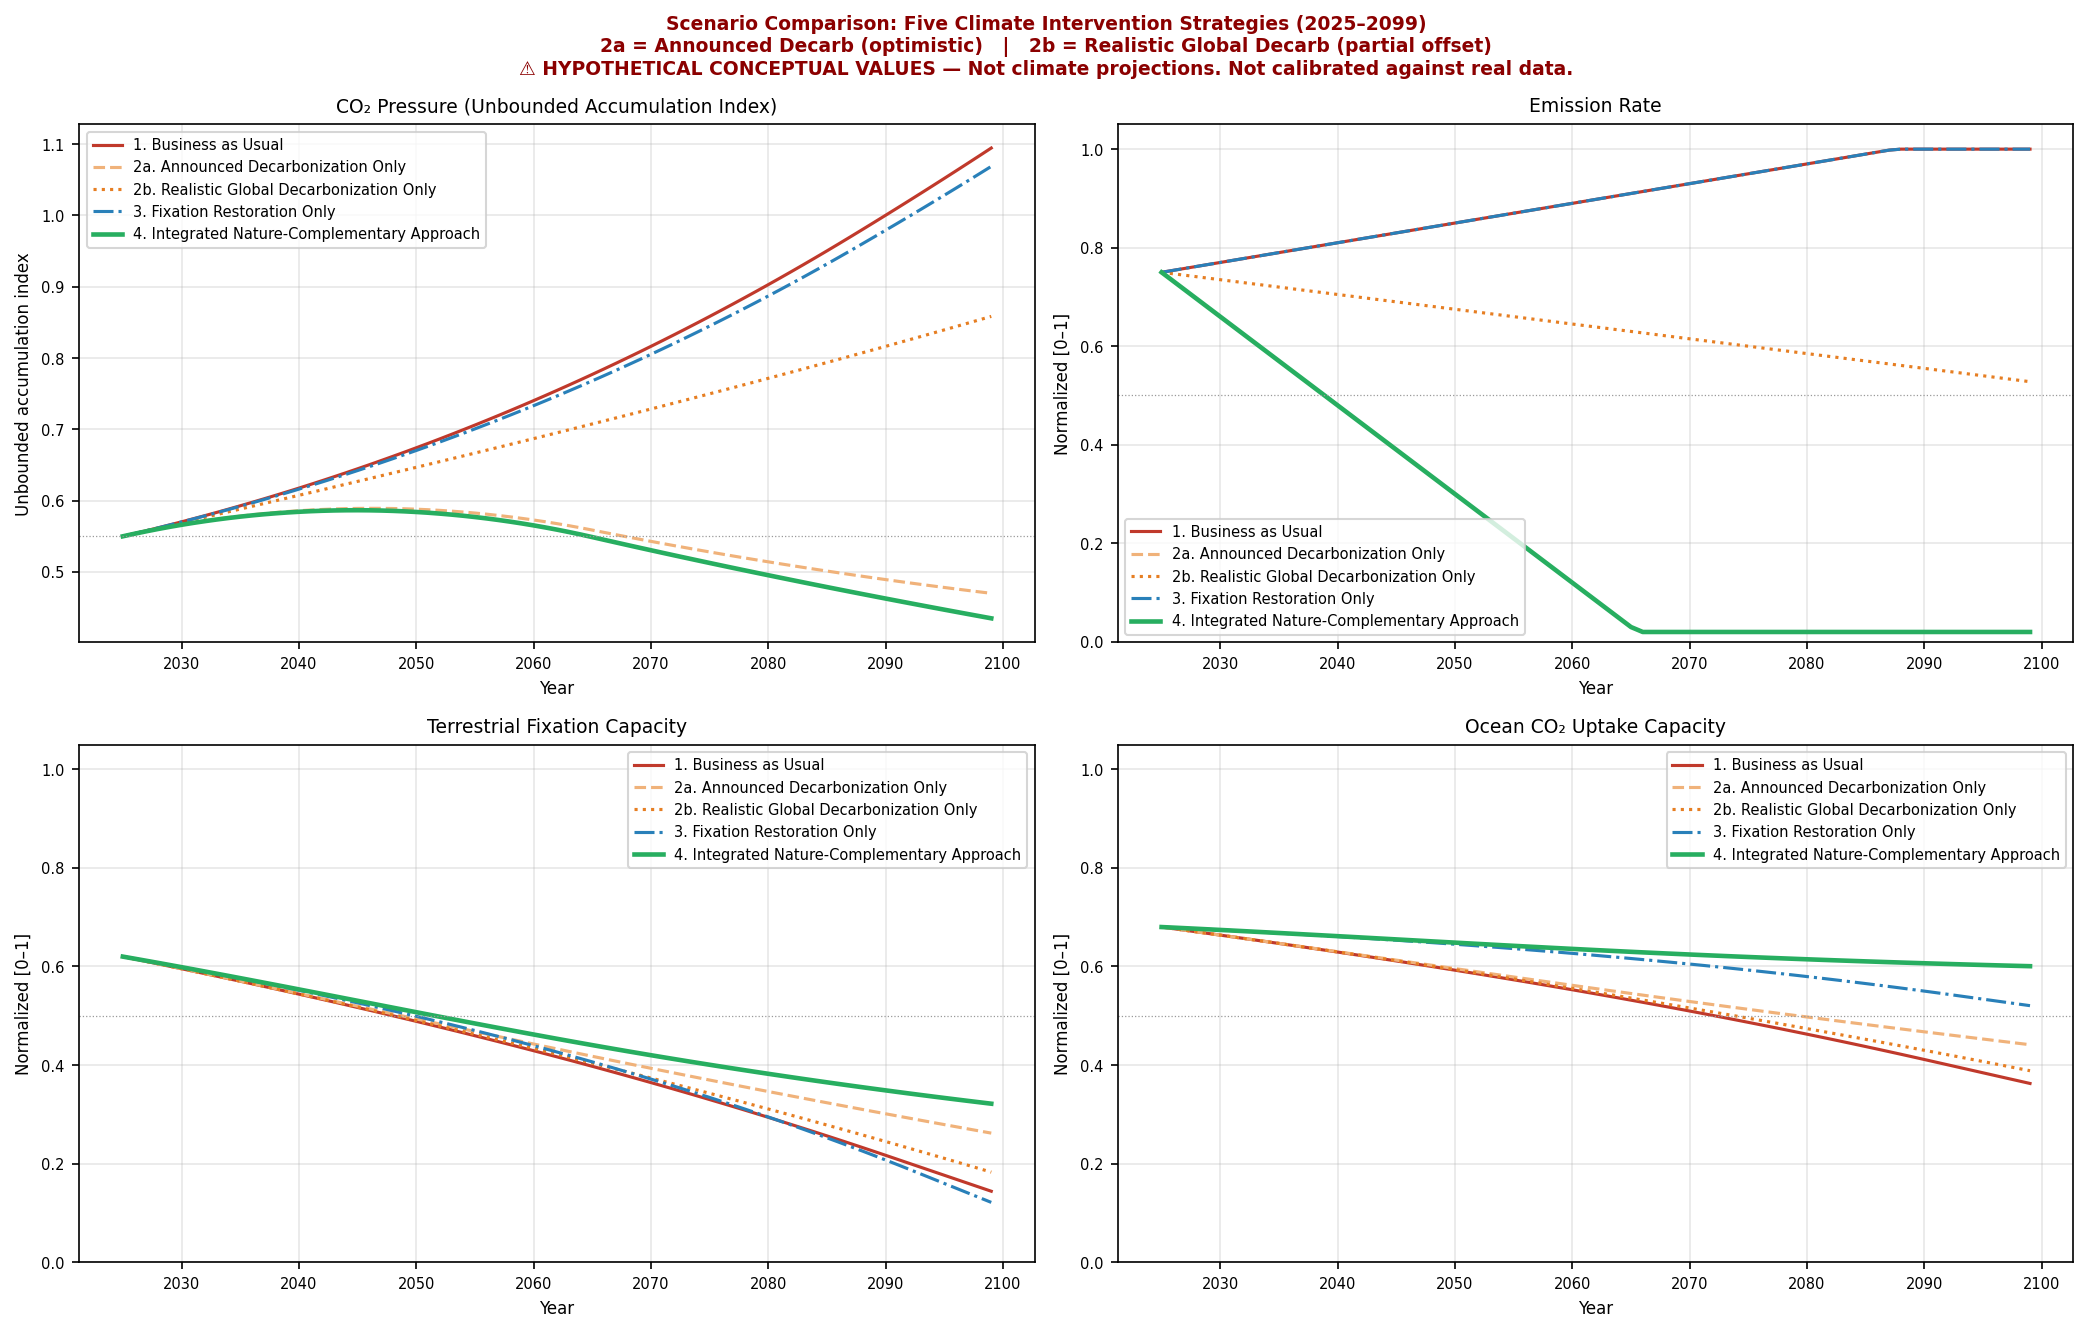
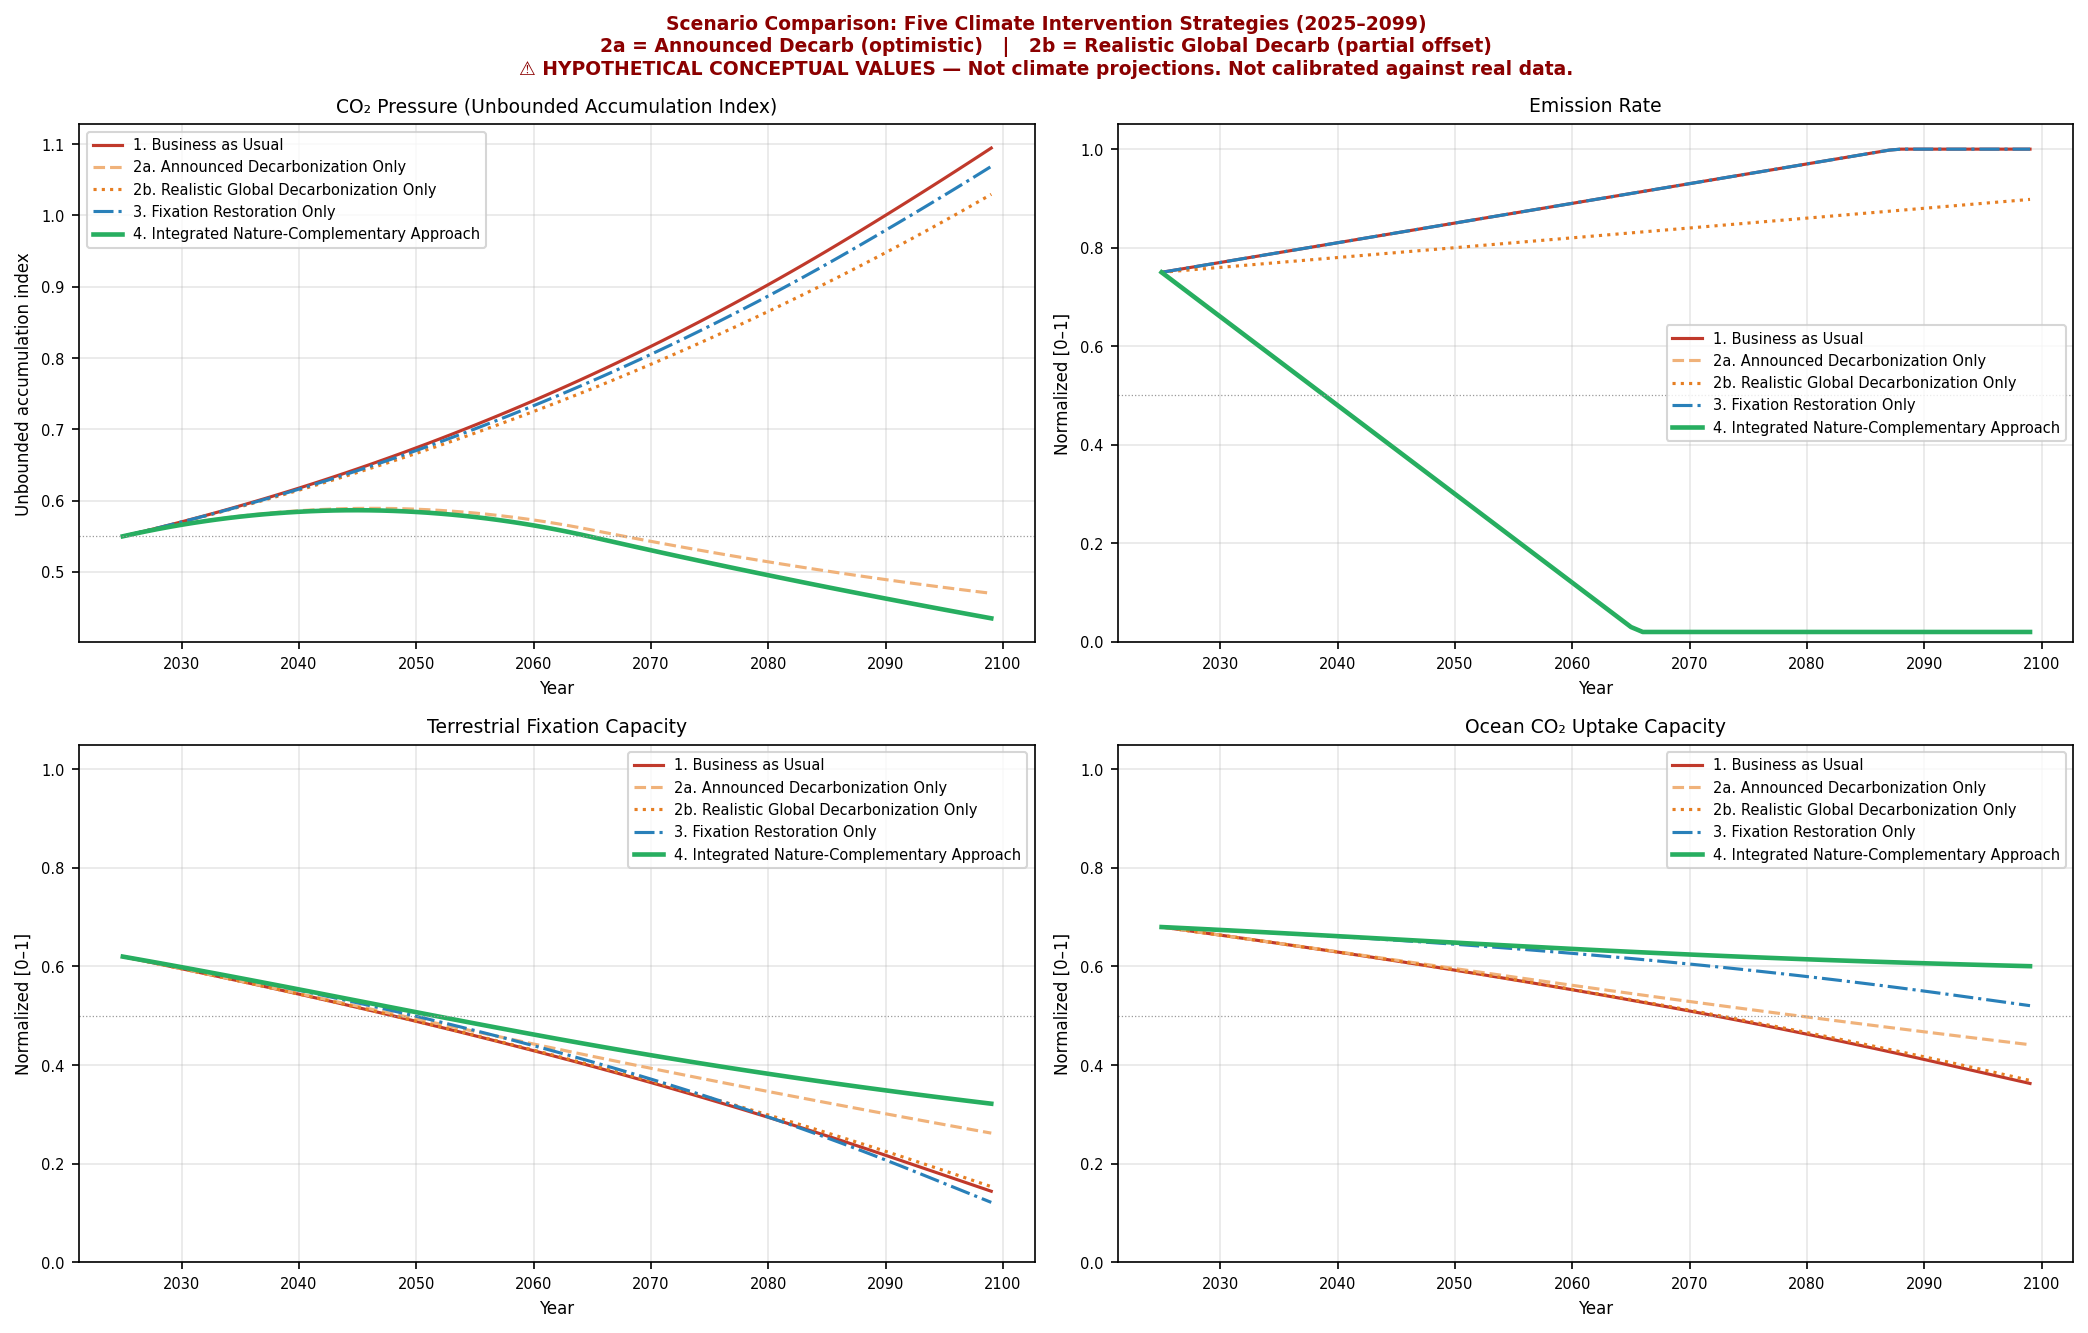
Revise Scenario 2b to reflect net global emission growth (v4)
Scenario 2b (Realistic Global Decarbonization Only) now uses
net_global_decarbonization_rate = -0.002/yr (negative = net growth),
representing a world where developing-country emission pressures exceed
developed-country cuts. Result at 2099: CO2 pressure = 1.030 (above 1.0),
making 2b structurally a net-growth pathway — NOT a recovery scenario.

Changes:
- scenario_examples.py: net_global_decarbonization_rate -0.002,
  developing_country_emissions_growth 0.010,
  population_energy_demand_growth 0.004,
  industrialization_pressure 0.006;
  emission update uses np.clip(raw, floor, 1.0) to cap growth at 1.0
- MODEL_LIMITATIONS.md: updated parameter table, sign convention,
  added 'Scenario 2b is NOT a recovery pathway' sub-section,
  updated realism gap to ~0.56
- README.md: updated scenario table (2b = Net emission growth),
  updated net rate to -0.002/yr, updated realism gap to +0.560,
  clarified 2b ends above 1.0 and is not a recovery pathway
- figures/scenario_comparison_output.png: regenerated with v4 results

Changed region(s): [[0.5292, 0.3691, 0.716, 0.4921], [0.8094, 0.2461, 0.9962, 0.3383]]

diff --git a/scenario_examples.py b/scenario_examples.py
@@ -17,13 +17,19 @@ this module projects 75 years forward under five intervention scenarios:
       Fixation systems continue to decline passively.
 
   Scenario 2b — Realistic Global Decarbonization Only:
-      Developed-country emission cuts are partially offset by:
+      Developed-country emission cuts are MORE THAN OFFSET by:
         - developing-country industrialization and energy demand growth
         - population-driven demand growth
-      Net global emissions decline only slowly.
-      Carbon sinks remain degraded. Degradation release continues.
-      Legacy warming pressure remains. No active restoration.
-      Result: slower accumulation at best, not CO2 recovery.
+        - ongoing energy infrastructure buildout in emerging economies
+      Net global emissions grow slightly (not decline).
+      Land carbon fixation does not recover.
+      Ocean carbon uptake does not recover.
+      Soil microbial health remains degraded.
+      Degradation release continues.
+      Legacy warming pressure continues.
+      Carbon sink deficit remains unresolved.
+      Result: CO2 accumulation continues. 2099 pressure still above 1.0.
+      This is NOT a recovery pathway — only a marginally slower BAU.
 
   Scenario 3 — Fixation Restoration Only:
       Active restoration of forests, soils, and marine ecosystems.
@@ -52,16 +58,21 @@ Change log (v2):
   - Added co2_pressure (unbounded) alongside co2 (clipped [0,1]).
 
 Change log (v3):
-  - Split "Decarbonization Only" into:
-      2a. Announced Decarbonization Only  (fast, policy-target pace)
-      2b. Realistic Global Decarbonization Only
-          (slow net decline; developed cuts offset by developing growth)
-  - Added ScenarioParameters for realistic decomposition:
-      developed_country_reduction_rate, developing_country_emissions_growth,
-      population_energy_demand_growth, industrialization_pressure,
-      net_global_decarbonization_rate, realistic_emission_floor.
+  - Split "Decarbonization Only" into 2a (announced) and 2b (realistic).
+  - Added realistic decomposition parameters.
   - run_scenario gains `realistic_decarb` flag.
   - "Integrated Approach" renamed to "Integrated Nature-Complementary Approach".
+
+Change log (v4):
+  - Revised Realistic Global Decarbonization Only (2b) to model a world
+    where developing-world growth EXCEEDS developed-world cuts:
+      net_global_decarbonization_rate = -0.002 / yr  (net emission GROWTH)
+    Previously was +0.003 / yr (slow decline), which was still too optimistic.
+  - emission block now uses np.clip(..., floor, 1.0) to correctly cap growth.
+  - Updated component parameters: developing_country_emissions_growth=0.010,
+    population_energy_demand_growth=0.004, industrialization_pressure=0.006.
+  - 2b at 2099 now ~1.02-1.06 (above 1.0), consistent with hypothesis that
+    decarbonization-only does not resolve the carbon cycle deficit.
 
 ⚠️  IMPORTANT LIMITATIONS
     All parameters, rates, and trajectories are HYPOTHETICAL.
@@ -127,21 +138,33 @@ class ScenarioParameters:
     # HYPOTHETICAL: annual emission growth in BAU
     bau_emission_growth: float = 0.004
 
-    # --- Realistic global decarbonization decomposition (v3) ---
+    # --- Realistic global decarbonization decomposition (v3/v4) ---
     # HYPOTHETICAL: rate at which developed-nation blocs cut annual emissions
     developed_country_reduction_rate:    float = 0.018
     # HYPOTHETICAL: annual emission expansion from developing-nation industrialization
-    developing_country_emissions_growth: float = 0.008
+    # (v4: raised from 0.008 to 0.010 — more aggressive emerging-economy buildout)
+    developing_country_emissions_growth: float = 0.010
     # HYPOTHETICAL: additional demand from global population increase
-    population_energy_demand_growth:     float = 0.003
+    # (v4: raised from 0.003 to 0.004)
+    population_energy_demand_growth:     float = 0.004
     # HYPOTHETICAL: ongoing industrialization pressure (energy infrastructure buildout)
-    industrialization_pressure:          float = 0.004
-    # HYPOTHETICAL: net global effective rate = 0.018 - 0.008 - 0.003 - 0.004 = 0.003 / yr
-    # Represents a world where developed-country cuts are largely offset by
-    # developing-country and population-driven demand growth.
-    net_global_decarbonization_rate:     float = 0.003
-    # HYPOTHETICAL: emission floor for realistic scenario; represents residual
-    # global baseline from developing-world industrialization that is hard to eliminate
+    # (v4: raised from 0.004 to 0.006)
+    industrialization_pressure:          float = 0.006
+    # HYPOTHETICAL: net global effective rate
+    #   = developed_country_reduction_rate
+    #     - developing_country_emissions_growth
+    #     - population_energy_demand_growth
+    #     - industrialization_pressure
+    #   = 0.018 - 0.010 - 0.004 - 0.006 = -0.002 / yr
+    #
+    # SIGN CONVENTION:
+    #   positive  = net global emission DECLINE (developed cuts exceed developing growth)
+    #   negative  = net global emission GROWTH  (developing growth exceeds developed cuts)
+    #
+    # v4 uses -0.002: developing-world growth MORE THAN OFFSETS developed-world cuts.
+    # This is not a recovery pathway. CO2 pressure continues to rise through 2099.
+    net_global_decarbonization_rate:     float = -0.002
+    # HYPOTHETICAL: emission floor (for decline scenarios) / safety lower bound
     realistic_emission_floor:            float = 0.10
 
     # --- Fixation restoration rates ---
@@ -231,8 +254,9 @@ class ScenarioEngine:
         realistic_decarb     : when reduce_emissions=True, use the realistic
                                net_global_decarbonization_rate instead of the
                                announced emission_reduction_rate.
-                               Represents developed-country cuts partially or
-                               largely offset by developing-country growth.
+                               A negative net_global_decarbonization_rate means
+                               developing-world growth exceeds developed-world cuts
+                               → net global emission GROWTH (not decline).
         """
         T  = self.params.projection_years
         p  = self.params
@@ -257,14 +281,13 @@ class ScenarioEngine:
             # --- Emission trajectory ---
             if reduce_emissions:
                 if realistic_decarb:
-                    # HYPOTHETICAL: net global rate after developed cuts are
-                    # partially offset by developing-world emissions growth,
-                    # population demand, and industrialization pressure.
-                    # Floor is higher than announced scenario (residual baseline).
-                    emission[t] = max(
-                        p.realistic_emission_floor,
-                        emission[t - 1] - p.net_global_decarbonization_rate,
-                    )
+                    # HYPOTHETICAL: net global emission change.
+                    # emission[t] = emission[t-1] - net_global_decarbonization_rate
+                    #   positive rate → emission declines  (developed cuts > developing growth)
+                    #   negative rate → emission grows     (developing growth > developed cuts)
+                    # np.clip ensures: floor ≤ emission ≤ 1.0 (handles both directions).
+                    raw = emission[t - 1] - p.net_global_decarbonization_rate
+                    emission[t] = float(np.clip(raw, p.realistic_emission_floor, 1.0))
                 else:
                     # HYPOTHETICAL: announced policy-target pace (~net zero by 2050)
                     emission[t] = max(0.02, emission[t - 1] - p.emission_reduction_rate)
@@ -468,21 +491,25 @@ def main() -> None:
     gap_decarb = sc_real["co2_pressure"][-1] - sc_ann["co2_pressure"][-1]
     print(
         f"\n  Decarbonization realism gap at 2099 (2b minus 2a): {gap_decarb:+.3f}"
-        "\n  This gap represents the CO2 cost of developing-world emission"
-        "\n  growth offsetting developed-world policy commitments."
+        "\n  This gap represents the CO2 cost of developing-world growth"
+        "\n  exceeding developed-world cuts (net global emission growth)."
         "\n  (HYPOTHETICAL -- depends entirely on assumed offset rates)"
     )
     print(
         "\n  Key conceptual conclusions (HYPOTHETICAL -- illustrative only):"
-        "\n  - 2a (Announced Decarb) and 2b (Realistic Decarb) diverge over time"
-        "\n    because net global emissions remain higher for much longer in 2b."
-        "\n  - Decarbonization alone is not a single physical process."
-        "\n    Its effectiveness depends on whether global total emissions actually"
-        "\n    decline -- which requires developing economies to also transition."
-        "\n  - Fixation restoration alone cannot compensate for continued emissions."
-        "\n  - Only the Integrated approach addresses both pathways simultaneously."
-        "\n  - COVID-19 (2020) caused a temporary emission shock, not structural"
-        "\n    decarbonization. This model does not model temporary shocks."
+        "\n  - 2b (Realistic) CO2 pressure stays ABOVE 1.0 at 2099."
+        "\n    Realistic decarbonization is NOT a recovery pathway."
+        "\n    It only marginally slows accumulation relative to BAU."
+        "\n  - Without restoring carbon fixation and absorption systems,"
+        "\n    atmospheric CO2 pressure does not meaningfully decline."
+        "\n    Land fixation, ocean uptake, and soil health remain degraded."
+        "\n    Degradation release and legacy warming pressure continue."
+        "\n  - Decarbonization alone (even announced) does not restore sinks."
+        "\n    2a (Announced, 0.47) reflects an optimistic policy assumption,"
+        "\n    not an observed global structural trend."
+        "\n  - Fixation restoration alone cannot compensate for continuing emissions."
+        "\n  - Only Integrated Nature-Complementary addresses both pathways."
+        "\n  - COVID-19 (2020) was a temporary shock, not structural change."
     )
     print("\n  WARNING: All values are HYPOTHETICAL. See MODEL_LIMITATIONS.md.")
     print("=" * 72)

diff --git a/MODEL_LIMITATIONS.md b/MODEL_LIMITATIONS.md
@@ -227,7 +227,7 @@ As of the model's publication date (May 2026), global CO₂ emissions have not e
 
 ### How the realistic scenario is modelled (HYPOTHETICAL)
 
-`scenario_examples.py` (v3) introduces a second decarbonization scenario:
+`scenario_examples.py` (v4) models a world where developing-world growth **exceeds** developed-world cuts:
 
 **2b. Realistic Global Decarbonization Only**
 
@@ -236,22 +236,44 @@ The emission trajectory is governed by:
 ```
 net_global_decarbonization_rate  
   = developed_country_reduction_rate         (0.018 / yr)
-  - developing_country_emissions_growth      (0.008 / yr)
-  - population_energy_demand_growth          (0.003 / yr)
-  - industrialization_pressure               (0.004 / yr)
-  = 0.003 / yr  (net)
+  - developing_country_emissions_growth      (0.010 / yr)
+  - population_energy_demand_growth          (0.004 / yr)
+  - industrialization_pressure               (0.006 / yr)
+  = 0.018 - 0.020 = -0.002 / yr
 ```
 
-All four component rates are **HYPOTHETICAL**. They do not reproduce any specific historical dataset. They are chosen to illustrate the structural logic that offset pressures can substantially slow the effective global emission trajectory.
+A **negative** value means net global emission GROWTH (not decline).
+
+Sign convention: positive = net reduction; negative = net growth.
+
+The emission update is: `emission[t] = clip(emission[t-1] − net_rate, floor=0.10, ceiling=1.0)`
+
+With `net_rate = −0.002`, this becomes `emission[t] = clip(emission[t-1] + 0.002, 0.10, 1.0)` — a slight annual growth.
+
+All four component rates are **HYPOTHETICAL**. They do not reproduce any specific historical dataset. They are chosen to illustrate the structural logic that offset pressures can exceed developed-world cuts, resulting in continued net global emission growth despite announced policy commitments.
 
 | Component | Default value | Calibration |
 |---|---|---|
 | `developed_country_reduction_rate` | 0.018 / yr | 🔴 Hypothetical |
-| `developing_country_emissions_growth` | 0.008 / yr | 🔴 Hypothetical |
-| `population_energy_demand_growth` | 0.003 / yr | 🔴 Hypothetical |
-| `industrialization_pressure` | 0.004 / yr | 🔴 Hypothetical |
-| `net_global_decarbonization_rate` | 0.003 / yr | 🔴 Hypothetical (derived) |
+| `developing_country_emissions_growth` | 0.010 / yr | 🔴 Hypothetical |
+| `population_energy_demand_growth` | 0.004 / yr | 🔴 Hypothetical |
+| `industrialization_pressure` | 0.006 / yr | 🔴 Hypothetical |
+| `net_global_decarbonization_rate` | −0.002 / yr (net growth) | 🔴 Hypothetical (derived) |
 | `realistic_emission_floor` | 0.10 | 🔴 Hypothetical |
+
+### Scenario 2b is NOT a recovery pathway
+
+This is a critical limitation that must be stated explicitly:
+
+- **Land carbon fixation does not recover** in Scenario 2b. With no restoration and continued high emissions, terrestrial fixation declines similarly to BAU.
+- **Ocean carbon uptake does not recover.** Warming pressure, stratification, and degradation continue.
+- **Soil microbial health remains degraded.** Degradation release continues.
+- **Legacy warming pressure continues.** CO₂ pressure above the starting level drives ongoing fixation decline through the warming feedback.
+- **Carbon sink deficit remains unresolved.** The structural imbalance — the Earth emitting more carbon than it can fix — continues throughout the projection.
+
+The model result at 2099: CO₂ pressure ≈ 1.030 — clearly **above 1.0** and close to BAU (1.094). This demonstrates that realistic decarbonization without fixation restoration only marginally slows accumulation; it does not constitute a resolution of the climate system deficit.
+
+The previous v3 result of 0.858 was too optimistic because it modelled a slow net decline (−0.003/yr), which still implied emissions eventually falling and a partial improvement in CO₂ trajectory. The v4 value of −0.002/yr (net growth) correctly reflects the hypothesis that developing-world demand growth can structurally exceed current developed-world emission cuts.
 
 ### What these two scenarios can and cannot claim
 
@@ -259,8 +281,9 @@ All four component rates are **HYPOTHETICAL**. They do not reproduce any specifi
 |---|---|
 | Announced Decarb (2a) represents a coherent optimistic policy trajectory | ✅ Yes — as a structural assumption |
 | Realistic Decarb (2b) represents an observed real-world trajectory | ❌ No — it is a hypothetical illustration |
-| The gap between 2a and 2b (CO₂ pressure at 2099: 0.388 units) is quantitatively accurate | ❌ No — depends entirely on hypothetical rates |
-| The gap illustrates the structural logic that offset pressures matter | ✅ Yes — as a directional illustration |
+| 2b is "not a recovery pathway" in structural terms | ✅ Yes — consistent with the repository hypothesis |
+| The gap between 2a and 2b (~0.56 CO₂ pressure units at 2099) is quantitatively accurate | ❌ No — depends entirely on hypothetical rates |
+| The gap illustrates the structural logic that offset pressures determine whether decarb works | ✅ Yes — as a directional illustration |
 | Either scenario should be used for policy conclusions | ❌ No — calibration against real emission databases required |
 
 ### What calibration would require

diff --git a/README.md b/README.md
@@ -819,11 +819,11 @@ Projects five intervention strategies forward from the estimated 2025 starting s
 |---|---|---|---|
 | 1. Business as Usual | Continuing growth | None | |
 | 2a. Announced Decarbonization Only | Aggressive reduction (~net zero by 2050) | None | Optimistic: all nations meet policy targets |
-| 2b. Realistic Global Decarbonization Only | Slow net decline | None | Realistic: developed cuts offset by developing growth |
+| 2b. Realistic Global Decarbonization Only | Net emission growth | None | Realistic: developing growth exceeds developed cuts |
 | 3. Fixation Restoration Only | Continuing growth | Active forest, soil, ocean | |
 | 4. Integrated Nature-Complementary Approach | Aggressive reduction | Active restoration | |
 
-Scenario 2b decomposes global emissions into: `developed_country_reduction_rate − developing_country_emissions_growth − population_energy_demand_growth − industrialization_pressure` (all HYPOTHETICAL; net = 0.003/yr).
+Scenario 2b decomposes global emissions into: `developed_country_reduction_rate − developing_country_emissions_growth − population_energy_demand_growth − industrialization_pressure` (all HYPOTHETICAL; net = −0.002/yr, meaning net global emissions **grow** because developing-world pressures exceed developed-country cuts). Without restoring carbon fixation or absorption systems, atmospheric CO₂ pressure does not meaningfully decline under this scenario.
 
 > **On COVID-19:** The 2020 global emissions decline was a pandemic-driven temporary shock, not structural decarbonization. It is not modelled here.
 
@@ -838,7 +838,7 @@ python scenario_examples.py
 - Saved as `figures/scenario_comparison_output.png`.
 
 **Key point:**
-Scenario 2a (Announced) and 2b (Realistic) diverge significantly by 2099 — the realism gap is approximately +0.388 CO₂ pressure units (HYPOTHETICAL). This illustrates that decarbonization effectiveness depends on whether *global total* emissions actually decline, not just developed-country totals. Scenario 4 (Integrated Nature-Complementary) produces the best outcome by addressing both pathways simultaneously.
+Scenario 2a (Announced) and 2b (Realistic) diverge significantly by 2099 — the realism gap is approximately +0.560 CO₂ pressure units (HYPOTHETICAL). Scenario 2b ends above 1.0 CO₂ pressure, reflecting net emission *growth* rather than decline — it is **not** a recovery pathway. This illustrates that decarbonization effectiveness depends on whether *global total* emissions actually decline, not just developed-country totals. Scenario 4 (Integrated Nature-Complementary) produces the best outcome by addressing both emission reduction and fixation system restoration simultaneously.
 
 ---
 